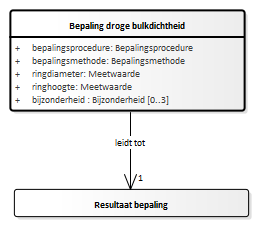
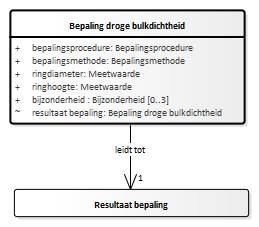
Conceptualmodel-BodemkundigwandonderzoektestSFR-test-1.0-0-20190724-20190725-155644

Changed region(s): [[0.0309, 0.4626, 0.9575, 0.5551], [0.4324, 0.6167, 0.556, 0.6784]]

diff --git a/data/SFR-test-cat.html b/data/SFR-test-cat.html
@@ -2,7 +2,7 @@
 <section id="cat" class="normative" level="1">
    <h2>Catalogus</h2>
    <p><b>Deze tekst is normatief.</b>
-      <!--Conceptualmodel-BodemkundigwandonderzoektestSFR-test-1.0-0-20190724-20190725-154447 imvertor 1.53.2--></p>
+      <!--Conceptualmodel-BodemkundigwandonderzoektestSFR-test-1.0-0-20190724-20190725-155644 imvertor 1.53.2--></p>
    <div class="imageinfo overview"><img src="data/Images/EAID_CA9CD1EC_53FF_4a39_AC4D_DBBC9C184AE0.png" usemap="#imagemap-EAID_CA9CD1EC_53FF_4a39_AC4D_DBBC9C184AE0"><map name="imagemap-EAID_CA9CD1EC_53FF_4a39_AC4D_DBBC9C184AE0">
          <area shape="rect" coords="63,414,234,338" alt="" href="#graph_EAID_5A6D5EAE_B9F3_4478_BB5E_A3CA1BBB9AF1">
          <area shape="rect" coords="63,325,234,249" alt="" href="#graph_EAID_29CF2E71_FD42_4589_B6E8_0A26635A06C7">
@@ -15,7 +15,7 @@
          <area shape="rect" coords="360,1583,715,1360" alt="" href="#graph_EAID_791AE972_2278_418e_BEC1_8E1EF0C27FB9">
          <area shape="rect" coords="15,1031,297,825" alt="" href="#graph_EAID_529C9870_8914_4dd0_B98D_F99F609BDF71">
          <area shape="rect" coords="15,1235,297,1081" alt="" href="#graph_EAID_41C0216B_FFB5_448e_8A86_6145B0709AB0">
-         <area shape="rect" coords="15,620,297,479" alt="" href="#graph_EAID_6066C6DB_8452_4e99_BFBE_09AFED4E74FB">
+         <area shape="rect" coords="15,637,297,479" alt="" href="#graph_EAID_6066C6DB_8452_4e99_BFBE_09AFED4E74FB">
          <area shape="rect" coords="374,421,573,332" alt="" href="#graph_EAID_422B32C7_8FD7_4a9b_B039_85BACD6DE6A7">
          <area shape="rect" coords="341,288,623,160" alt="" href="#graph_EAID_98629788_7D14_41fd_9EFE_F92267477CB5">
          <area shape="rect" coords="341,116,623,27" alt="" href="#graph_EAID_9EAB818E_1CF6_43d4_A012_1911B30F4412"></map><p><b>Wandmonsteranalyse_voor_OM - overzicht</b></p>
@@ -113,7 +113,7 @@
          <h4>Objecttype Bepaling droge bulkdichtheid</h4>
          
          <div class="imageinfo "><img src="data/Images/EAID_F0303824_F2D2_4777_9035_EA3524D601A7.png" usemap="#imagemap-EAID_F0303824_F2D2_4777_9035_EA3524D601A7"><map name="imagemap-EAID_F0303824_F2D2_4777_9035_EA3524D601A7">
-               <area shape="rect" coords="10,111,245,10" alt="" href="#graph_EAID_6066C6DB_8452_4e99_BFBE_09AFED4E74FB"></map><p><b>Bepaling droge bulkdichtheid - detail</b></p>
+               <area shape="rect" coords="10,124,245,10" alt="" href="#graph_EAID_6066C6DB_8452_4e99_BFBE_09AFED4E74FB"></map><p><b>Bepaling droge bulkdichtheid - detail</b></p>
          </div>
          
          <table>
@@ -3127,6 +3127,58 @@
                   <tr>
                      <th>Formaat</th>
                      <td>Bijzonderheid</td>
+                  </tr>
+                  <tr>
+                     <th>Indicatie afleidbaar</th>
+                     <td>Nee</td>
+                  </tr>
+               </tbody>
+            </table>
+            
+         </section>
+         <a class="anchor" name="detail_attribute_Wandmonsteranalyse_BepalingDrogeBulkdichtheid_resultaatBepaling"></a><section id="detail_attribute_Wandmonsteranalyse_BepalingDrogeBulkdichtheid_resultaatBepaling" level="5">
+            <h5>Attribuutsoort details <a href="#global_class_Wandmonsteranalyse_BepalingDrogeBulkdichtheid">Bepaling droge bulkdichtheid</a> resultaat bepaling
+            </h5>
+            
+            <table>
+               <colgroup width="30%"></colgroup>
+               <colgroup width="70%"></colgroup>
+               <tbody>
+                  <tr>
+                     <th>Naam</th>
+                     <td>resultaat bepaling</td>
+                  </tr>
+                  <tr>
+                     <th>Herkomst</th>
+                     <td>BRO</td>
+                  </tr>
+                  <tr>
+                     <th>Herkomst definitie</th>
+                     <td>BRO</td>
+                  </tr>
+                  <tr>
+                     <th>Mogelijk geen waarde</th>
+                     <td>Nee</td>
+                  </tr>
+                  <tr>
+                     <th>Indicatie materiële historie</th>
+                     <td>Nee</td>
+                  </tr>
+                  <tr>
+                     <th>Indicatie formele historie</th>
+                     <td>Nee</td>
+                  </tr>
+                  <tr>
+                     <th>Indicatie kardinaliteit</th>
+                     <td>1</td>
+                  </tr>
+                  <tr>
+                     <th>Indicatie authentiek</th>
+                     <td>Authentiek</td>
+                  </tr>
+                  <tr>
+                     <th>Formaat</th>
+                     <td>Bepaling droge bulkdichtheid</td>
                   </tr>
                   <tr>
                      <th>Indicatie afleidbaar</th>
@@ -8167,7 +8219,7 @@
 <section id="lis" class="normative" level="1">
    <h2>Inhoud van waardenlijsten</h2>
    <p><b>Deze tekst is normatief.</b>
-      <!--Conceptualmodel-BodemkundigwandonderzoektestSFR-test-1.0-0-20190724-20190725-154447 imvertor 1.53.2--></p><a class="anchor" name="graph_EAID_C5AB2139_D49A_4858_A21F_AA7FF241EE48"></a><a class="anchor" name="detail_class_Wandmonsteranalyse_Bepalingsmethode"></a><section id="detail_class_Wandmonsteranalyse_Bepalingsmethode" level="3">
+      <!--Conceptualmodel-BodemkundigwandonderzoektestSFR-test-1.0-0-20190724-20190725-155644 imvertor 1.53.2--></p><a class="anchor" name="graph_EAID_C5AB2139_D49A_4858_A21F_AA7FF241EE48"></a><a class="anchor" name="detail_class_Wandmonsteranalyse_Bepalingsmethode"></a><section id="detail_class_Wandmonsteranalyse_Bepalingsmethode" level="3">
       <h3>Codelijst details Bepalingsmethode</h3>
       
       <table>
